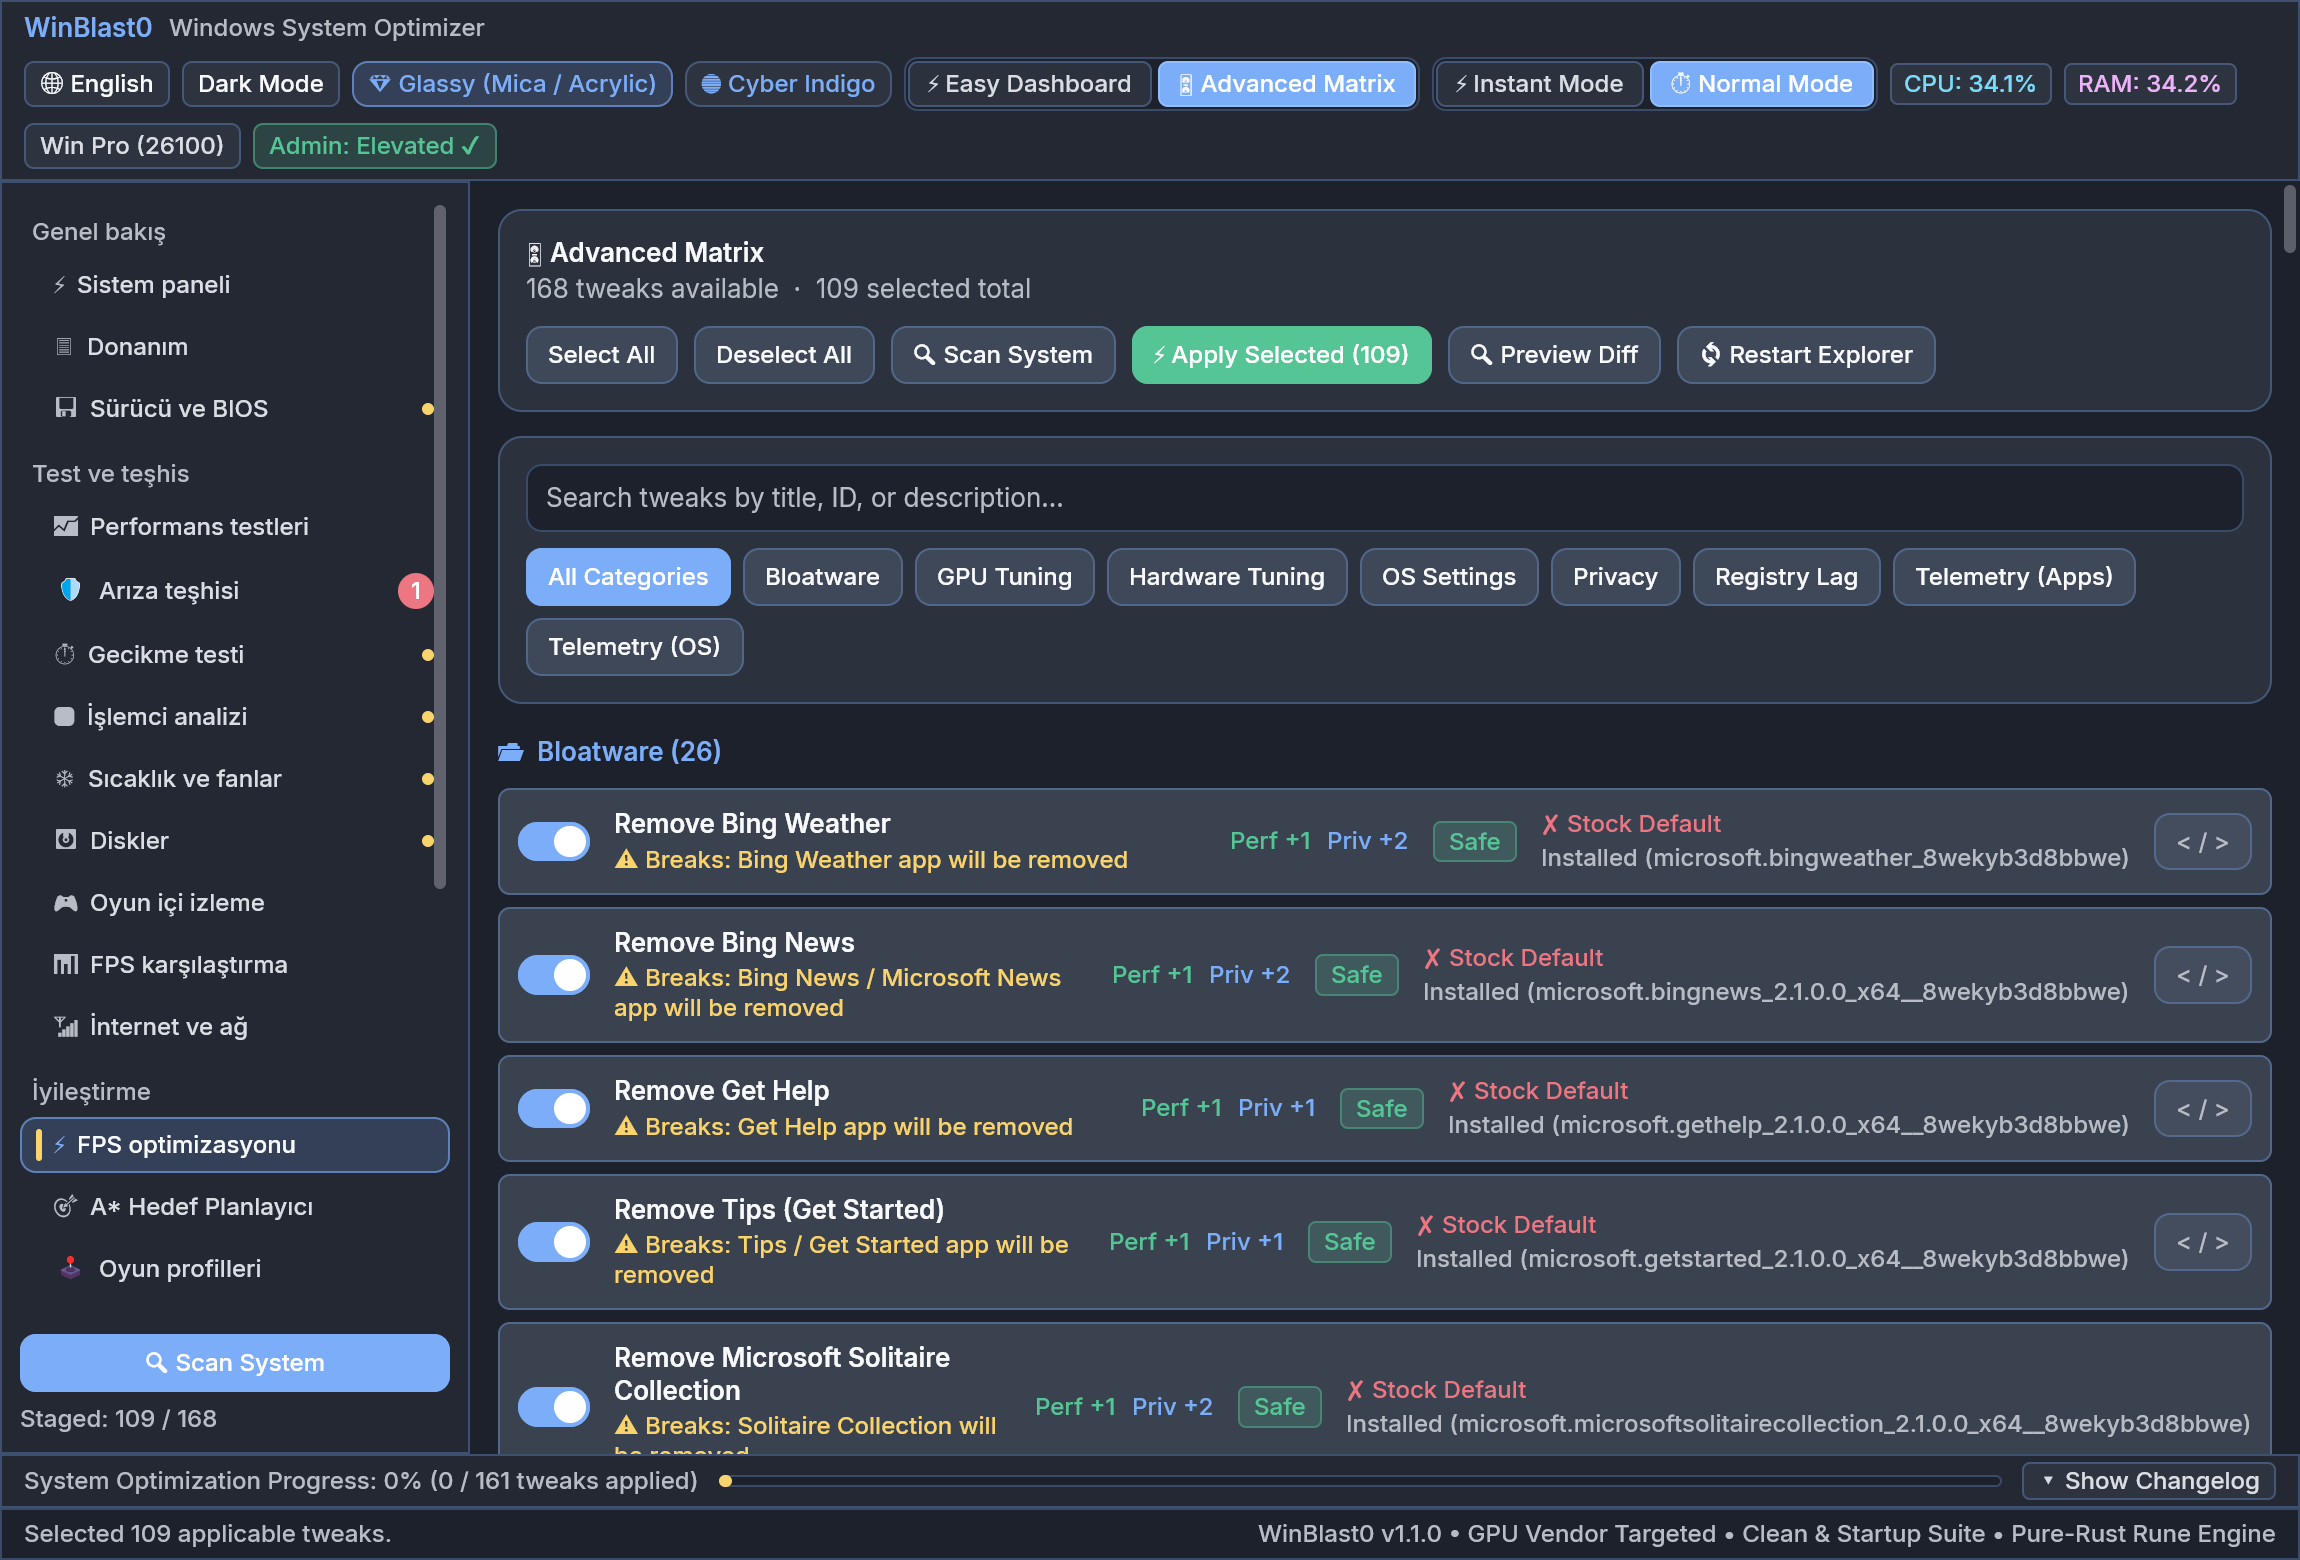
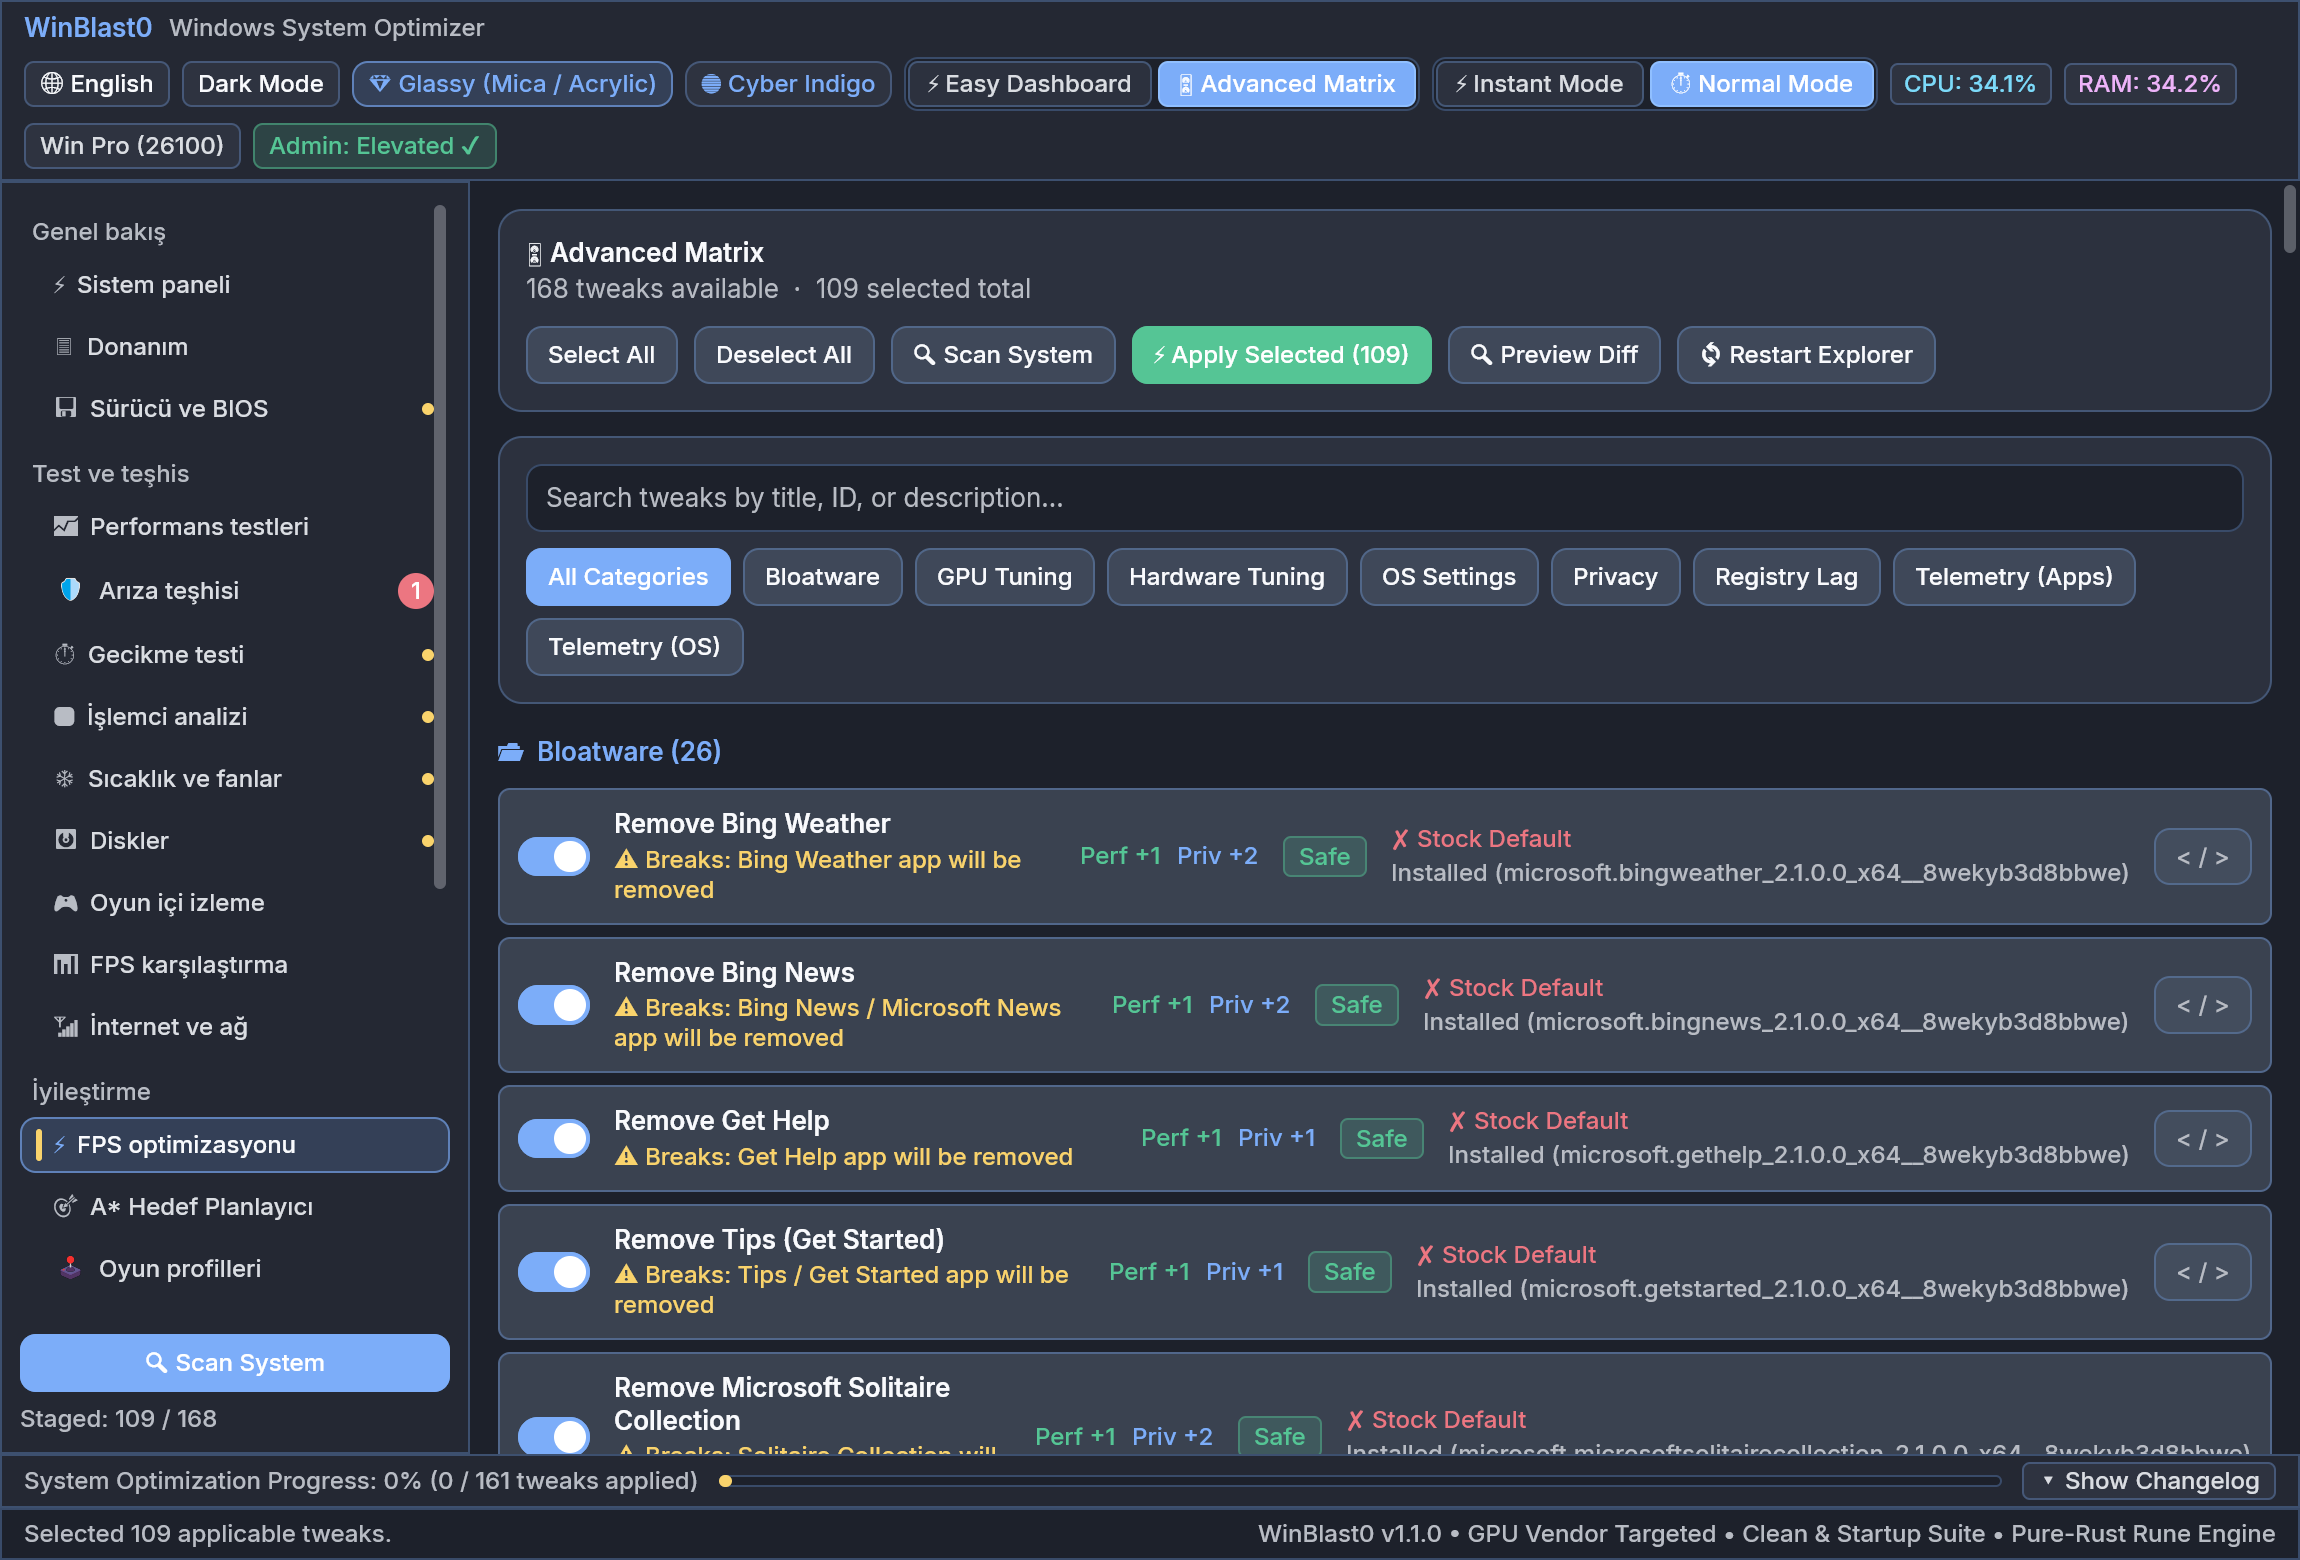
fix(hardening): slice safety, case-insensitive dmp parser, and silent subprocess execution

Changed region(s): [[0.2161, 0.5231, 0.9878, 0.9538]]

diff --git a/src/tools/windows_repair.rs b/src/tools/windows_repair.rs
@@ -2,8 +2,8 @@
 //!
 //! Provides clean execution of Windows system restoration routines.
 
+use crate::core::process::SilentCommand;
 use serde::{Deserialize, Serialize};
-use std::process::Command;
 
 /// One-click repair task definition.
 #[derive(Debug, Clone, Serialize, Deserialize)]
@@ -67,12 +67,12 @@ impl RepairTask {
     pub fn execute(id: &str) -> Result<String, String> {
         match id {
             "dns" => {
-                let _ = Command::new("ipconfig").arg("/flushdns").output();
+                let _ = SilentCommand::new("ipconfig").arg("/flushdns").output();
                 Ok("DNS resolver cache successfully purged and renewed.".to_string())
             }
             "winsock" => {
-                let _ = Command::new("netsh").args(["winsock", "reset"]).output();
-                let _ = Command::new("netsh").args(["int", "ip", "reset"]).output();
+                let _ = SilentCommand::new("netsh").args(["winsock", "reset"]).output();
+                let _ = SilentCommand::new("netsh").args(["int", "ip", "reset"]).output();
                 Ok("Winsock catalog and TCP/IP stack successfully reset.".to_string())
             }
             "icon_cache" => {

diff --git a/src/hardware/disks.rs b/src/hardware/disks.rs
@@ -2,8 +2,8 @@
 //!
 //! Uses direct Win32 IOCTL queries and volume analysis with zero external dependencies.
 
+use crate::core::process::SilentCommand;
 use serde::{Deserialize, Serialize};
-use std::process::Command;
 
 /// Drive health and SMART status.
 #[derive(Debug, Clone, Serialize, Deserialize)]
@@ -37,7 +37,7 @@ impl DiskSubsystemReport {
         // fsutil behavior query DisableDeleteNotify
         // If 0, TRIM is enabled.
         let mut trim_active = true;
-        if let Ok(output) = Command::new("fsutil")
+        if let Ok(output) = SilentCommand::new("fsutil")
             .args(["behavior", "query", "DisableDeleteNotify"])
             .output()
         {
@@ -81,7 +81,7 @@ impl DiskSubsystemReport {
 
     /// Run TRIM on all SSD volumes via PowerShell `Optimize-Volume -ReTrim`.
     pub fn run_trim_all() -> Result<String, String> {
-        let output = Command::new("powershell")
+        let output = SilentCommand::new("powershell")
             .args([
                 "-NoProfile",
                 "-NonInteractive",

diff --git a/src/core/reg_helpers.rs b/src/core/reg_helpers.rs
@@ -306,7 +306,7 @@ pub fn unescape_pipe(s: &str) -> String {
     while i < bytes.len() {
         if bytes[i] == b'%' && i + 2 < bytes.len() {
             match &bytes[i..i + 3] {
-                b"%7C" => {
+                b"%7C" | b"%7c" => {
                     out.push('|');
                     i += 3;
                     continue;
@@ -324,9 +324,12 @@ pub fn unescape_pipe(s: &str) -> String {
                 _ => {}
             }
         }
-        let ch = s[i..].chars().next().unwrap();
-        out.push(ch);
-        i += ch.len_utf8();
+        if let Some(ch) = s.get(i..).and_then(|sub| sub.chars().next()) {
+            out.push(ch);
+            i += ch.len_utf8();
+        } else {
+            break;
+        }
     }
     out
 }

diff --git a/src/tools/diagnostics.rs b/src/tools/diagnostics.rs
@@ -51,7 +51,12 @@ impl FaultDiagnosticsReport {
             if let Ok(entries) = std::fs::read_dir(&minidump_dir) {
                 for entry in entries.filter_map(|e| e.ok()) {
                     let path = entry.path();
-                    if path.extension().and_then(|ext| ext.to_str()) == Some("dmp") {
+                    if path
+                        .extension()
+                        .and_then(|ext| ext.to_str())
+                        .map(|s| s.eq_ignore_ascii_case("dmp"))
+                        == Some(true)
+                    {
                         if let Ok(meta) = entry.metadata() {
                             let size_kb = meta.len() / 1024;
                             let created = meta

diff --git a/src/tools/network_diag.rs b/src/tools/network_diag.rs
@@ -2,6 +2,7 @@
 //!
 //! Measures network round-trip ping to public DNS servers and verifies gaming TCP stack settings.
 
+use crate::core::process::SilentCommand;
 use serde::{Deserialize, Serialize};
 use std::net::{SocketAddr, TcpStream};
 use std::time::{Duration, Instant};
@@ -104,7 +105,7 @@ impl NetworkDiagnostics {
 
     /// Flush DNS Resolver Cache via `ipconfig /flushdns`.
     pub fn flush_dns() -> Result<String, String> {
-        let out = std::process::Command::new("ipconfig")
+        let out = SilentCommand::new("ipconfig")
             .arg("/flushdns")
             .output()
             .map_err(|e| format!("Failed to flush DNS: {}", e))?;

diff --git a/src/executor/engine.rs b/src/executor/engine.rs
@@ -988,11 +988,9 @@ pub fn revert_tweak_with(
                     default_start_type,
                     ..
                 } => {
-                    let prev = backend.get_service_start_type(service_name);
-                    if prev.is_none() {
+                    let Some(current_start) = backend.get_service_start_type(service_name) else {
                         continue;
-                    }
-                    let current_start = prev.unwrap();
+                    };
                     let prev_delayed = if current_start == 2 {
                         backend
                             .reg_get_dword(

diff --git a/src/ui/views/support_about.rs b/src/ui/views/support_about.rs
@@ -72,7 +72,7 @@ pub fn view(s: &AppState, _tier: LayoutTier) -> El {
                         )
                         .child(
                             action_button("GitHub Sayfasını Aç", p.accent, Color::WHITE, p, |_| {
-                                let _ = std::process::Command::new("rundll32")
+                                let _ = crate::core::process::SilentCommand::new("rundll32")
                                     .args(["url.dll,FileProtocolHandler", "https://github.com/Konstrukturmx/WinBlast-Optimizer"])
                                     .spawn();
                             })
